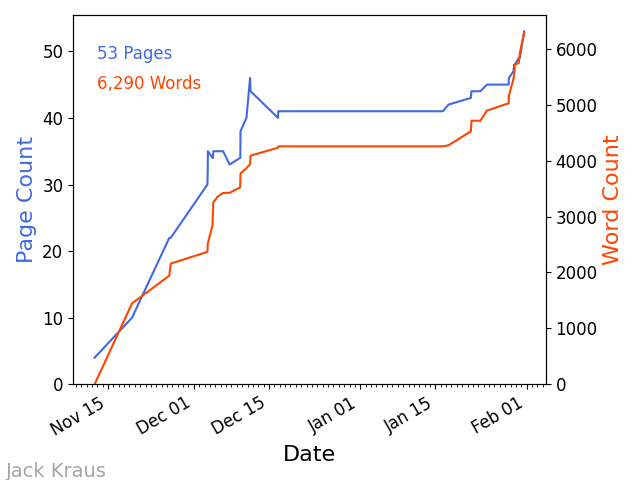
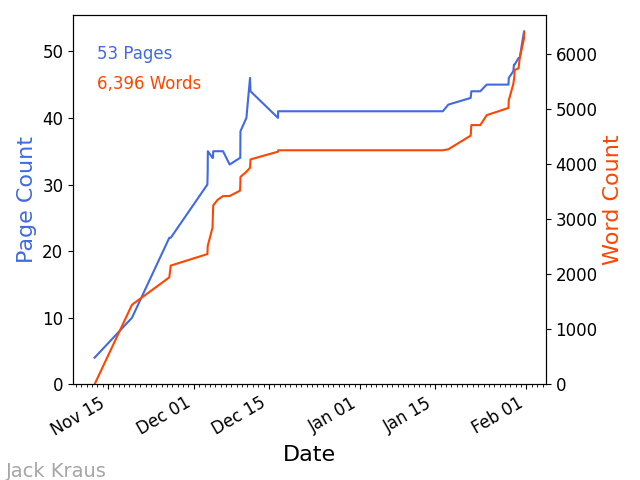
more edits

diff --git a/5. Ch. Modern IO Testing/_5.Modernizing_IO_Testing.tex b/5. Ch. Modern IO Testing/_5.Modernizing_IO_Testing.tex
@@ -3,6 +3,7 @@ Many of the I/O tests were originally created for the old EDM and haven't been u
 This project took in track information from a unit test using the T/P EDM, writes the data into an example xAOD object to file and reads it back.
 
 \section{CI Unit Tests}
+\label{sec:Mod_utests_CI}
 Unit tests are programs that act as a catch during the continuous integration of a codebase and exhaust features that need to remain functional. 
 Athena has a number of unit tests which check every merge request and nightly build for issues in the new code that could break core I/O functionality, either at the level of Athena, ROOT, or any other software in the LCG stack.
 With the adoption of the xAOD EDM, there were no unit tests to cover core I/O functionality related to this new EDM. 
@@ -59,11 +60,17 @@ If the unit test passes, then the diff will be empty and the unit test will be m
 Conversely, if the unit test fails, then the diff will be non-empty and the unit test will be marked as failing.
 
 \section{xAOD Test Object}
+\label{sec:Mod_utests_xAOD_object}
 
-The object used to employ the new unit test is the xAOD::ExampleElectron object, where the "xAOD::" is a declaration of the namespace and simply identifies the object as an xAOD object.
-An individual xAOD::ExampleElectron object only has a few parameters for sake of testing, its transvese momentum, \verb|pt|, and its charge, \verb|charge|.
-A collection of xAOD::ExampleElectron objects are stored in the xAOD::ExampleElectronContainer object, which is just a DataVector of xAOD::ExampleElectron objects.
-The xAOD EDM permits the use of an AuxStore
+The object used to employ the new unit test is the \verb|xAOD::ExampleElectron| object, where the \verb|xAOD::| is a declaration of the namespace and simply identifies the object as an xAOD object.
+An individual \verb|xAOD::ExampleElectron| object only has a few parameters for sake of testing, its transvese momentum, \verb|pt|, and its charge, \verb|charge|.
+A collection of \verb|xAOD::ExampleElectron| objects are stored in the \verb|xAOD::ExampleElectronContainer| object, which is just a \verb|DataVector| of \verb|xAOD::ExampleElectron| objects.
+This \verb|DataVector<xAOD::ExampleElectron>| acts similar to a \verb|std::vector<xAOD::ExampleElectron>|, but has additional code to handle the separation of interface and auxiliary data storage. 
+
+
+The xAOD EDM uses an abstract interface connecting between the \verb|DataVector| and the auxiliary data, this is the \verb|AuxStore|. 
+
+
 
 \section{Unit Test}
 

diff --git a/2. CH. ATLASIO/_2.ATLASIO.tex b/2. CH. ATLASIO/_2.ATLASIO.tex
@@ -178,5 +178,11 @@ The xAOD EDM use two types of objects handle data, interface objects and payload
 Interfaces act as an interface for the user to access the object but without its stored data. 
 This differs from T/P where the user would have to load an object into memory to access the object. 
 If the user wanted to delay the loading of data into memory, they could use the interface object to do so. 
-The payload object contains the data for the interface object and is allocating continuous memory. 
+The payload object contains the data for the interface object and is allocating contiguous blocks of memory. 
 Payload classes are often referred to as auxiliary storage. 
+
+The specific data structure used by ATLAS is the ROOT TTree, but the EDM is agnostic to the type of data structure used. 
+ATLAS specific libraries are not required to handle files written in the xAOD format since the payload can be read directly from the contiguous allocation of memory, a central tenent of the xAOD EDM.
+This allows for the separation of ATLAS specific analysis frameworks and the preferred analysis tool of the user.
+More information on how the xAOD EDM is deployed into unit tests in $\S$ \ref{sec:Mod_utests_xAOD_object}.
+
